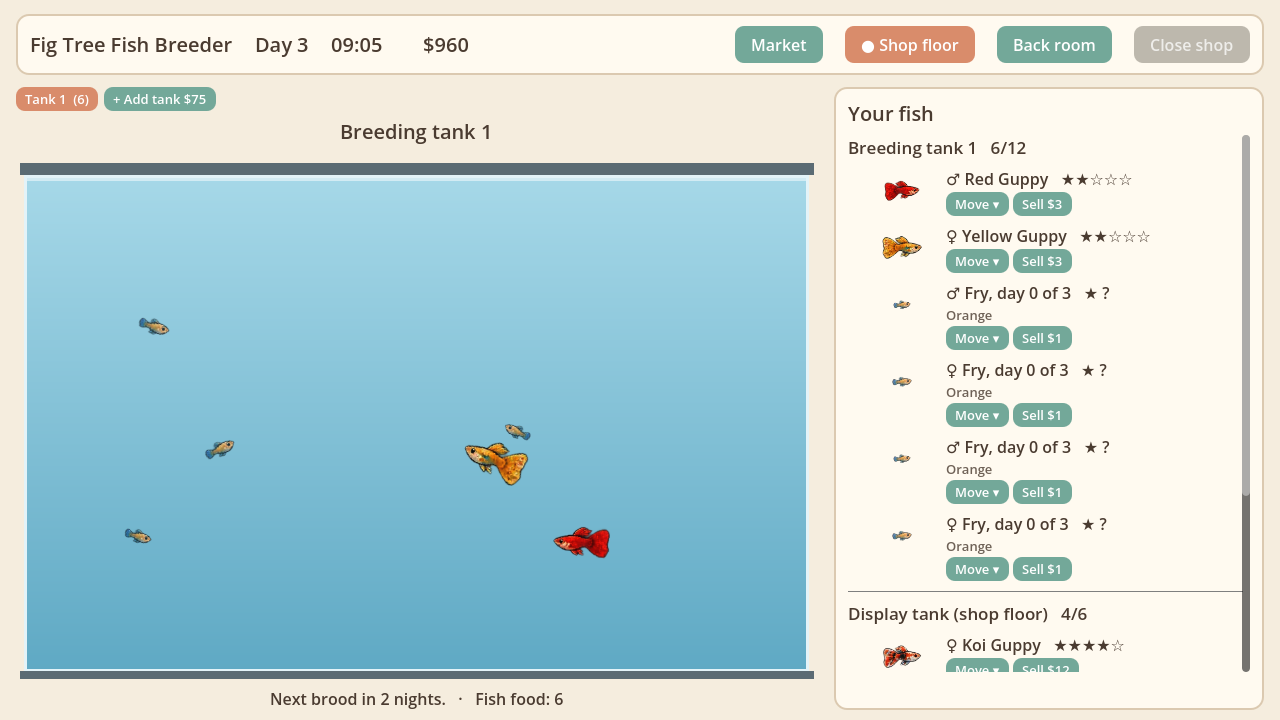
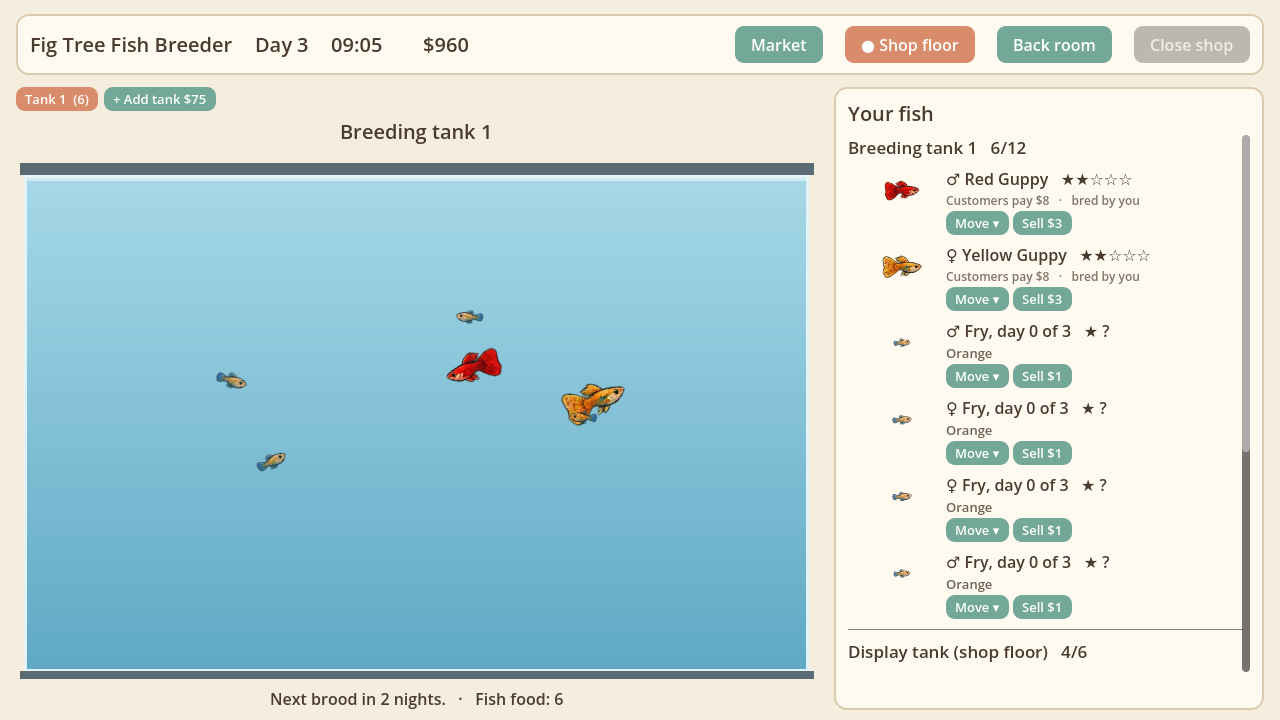
Show profit/loss when selling fish; breed-to-order (v0.4.0)
- Fish remember what you paid (Fish.paid); the counter shows
  "You paid $X · they'll pay $Y (a $Z loss/profit)", and fish lists show
  paid vs customer price
- When selling would be below cost, "Breed one" keeps your fish and adds
  a back-order for one like it (same traits and sex) at the quoted price,
  collectable from 2-3 days later. Any matching adult can be handed over,
  except the kept fish and each tank's breeding pair
- Counter confirmation messages now show after ordering in
- CHANGELOG, README, design log and screenshots updated; 6 new tests

diff --git a/README.md b/README.md
@@ -9,7 +9,7 @@ who wander in. No fish ever die, nothing punishes you, and there's no rush.
 
 **Play it in your browser:** <https://figtreegames.itch.io/fish-breeder-job-simulator>
 
-Current version: **0.3.0** (see the [changelog](CHANGELOG.md)).
+Current version: **0.4.0** (see the [changelog](CHANGELOG.md)).
 
 | Shop floor | Back room |
 |---|---|
@@ -29,6 +29,9 @@ Current version: **0.3.0** (see the [changelog](CHANGELOG.md)).
     Accept it, build it, then deliver it for the tank's value plus a bonus.
   - If they want something you don't have, you can **order it in** for them
     at 10% off and hand it over later.
+  - The counter shows what you paid for a fish and what they'll pay. If
+    selling would be a loss, **Breed one** keeps your fish and promises them
+    one like it in 2–3 days, at the same price.
 - **The back room** holds your breeding tanks: one to start, up to four if you
   buy more. Put an adult male and female in a tank and every couple of nights
   they have a brood of fry. Feed them (fish food) and they grow up in 3 days,
@@ -81,7 +84,7 @@ See [tests/README.md](tests/README.md) for details.
 with [butler](https://itch.io/docs/butler/):
 
 ```powershell
-.\tools\publish_web.ps1 0.3.0
+.\tools\publish_web.ps1 0.4.0
 ```
 
 ## Project layout

diff --git a/CHANGELOG.md b/CHANGELOG.md
@@ -2,6 +2,23 @@
 
 All notable changes to Fish Breeder Job Simulator. Newest first.
 
+## [0.4.0] - 2026-10-28
+
+### Added
+- **See your profit or loss before you sell.** When a customer wants one of
+  your fish, the counter shows what you paid and what they'll pay, e.g.
+  "You paid $39 · Priya will pay $30 (a $9 loss)". Fish you bred cost nothing.
+- **Breed one for them.** If selling would be a loss, a **Breed one** button
+  lets you keep your fish (to breed from) and promise the customer one like it
+  (same variety and sex) at the quoted price. They come back in 2–3 days; hand
+  it over from **Back-orders** once you've bred a matching adult. The fish you
+  kept and your breeding pairs are never handed over, and there's no penalty
+  if you're late.
+- Fish lists show what you paid for each fish and what customers pay for it.
+
+### Fixed
+- The confirmation message after **Order it in** now shows at the counter.
+
 ## [0.3.0] - 2026-10-28
 
 ### Added

diff --git a/docs/DESIGN.md b/docs/DESIGN.md
@@ -368,3 +368,10 @@ reputation. The design keeps room for all of these.
     there's no cross-breeding between tanks.
   - **Market tabs:** Fish / Decorations / Supplies.
   - **Clock:** 48 real seconds per in-game hour (25% faster).
+- **2026-10-28 (v0.4.0), breed-to-order:** fish remember what you paid
+  (`Fish.paid`, set by `buy_strain`). When a walk-in wants one of your fish and
+  their price is below what you paid, the counter offers **Breed one**. That
+  adds a back-order with the fish's `traits` + `sex`, the quoted price, a
+  `due_day` 2–3 days ahead (`backorders.breed_wait_days`) and `keep_id`. It can
+  be handed over from the due day with any matching adult in holding, display
+  or a breeding tank, except the kept fish and each tank's breeding pair.
